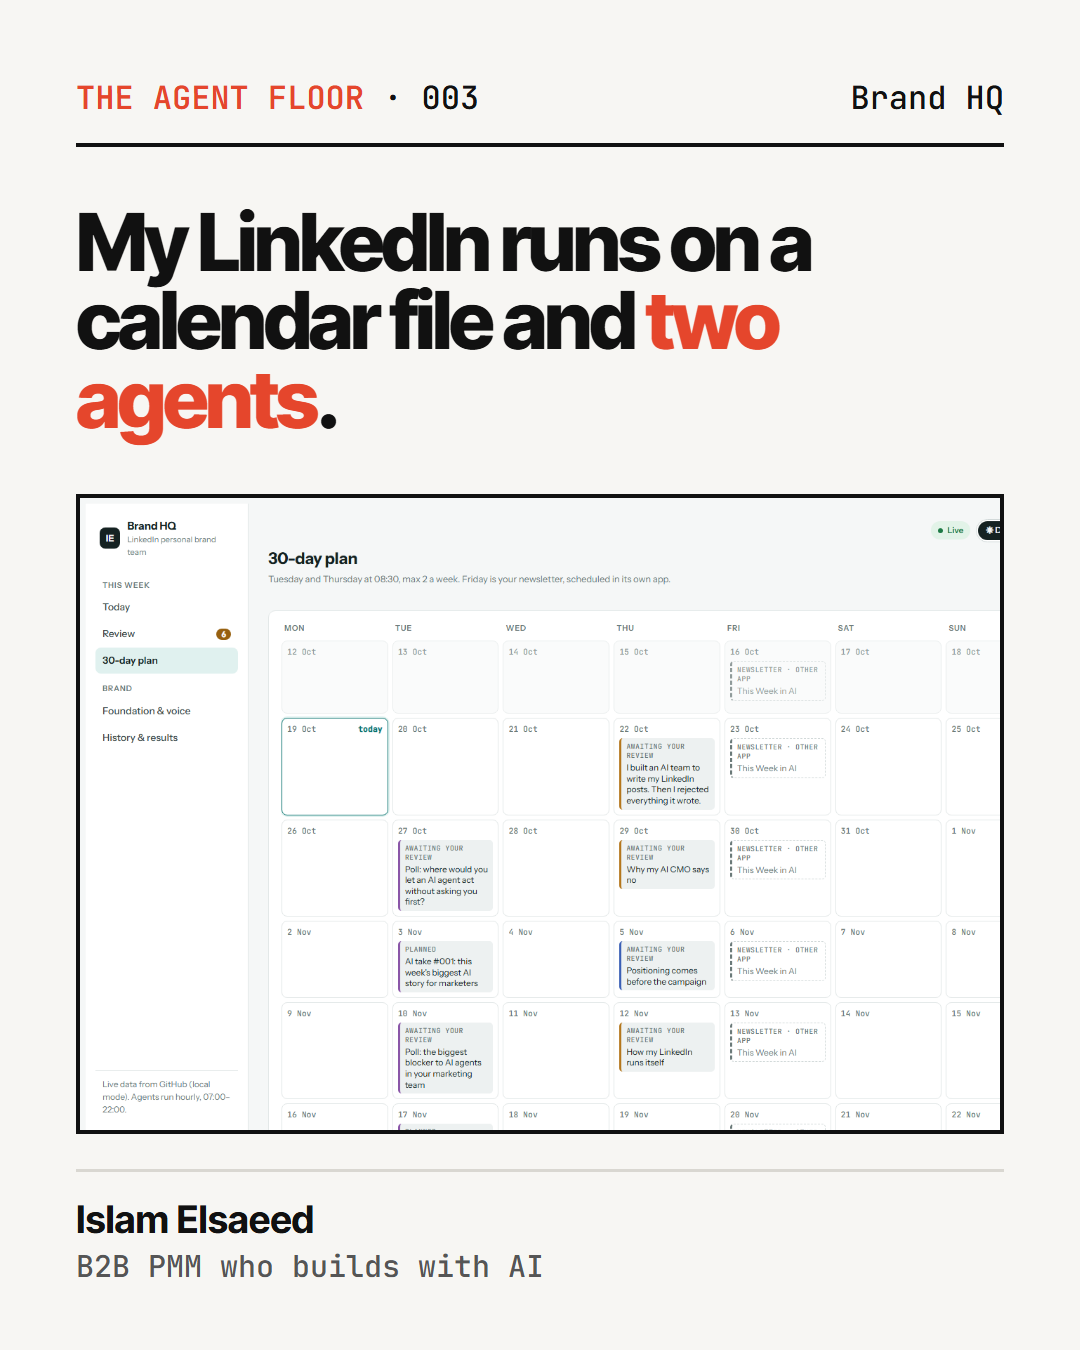
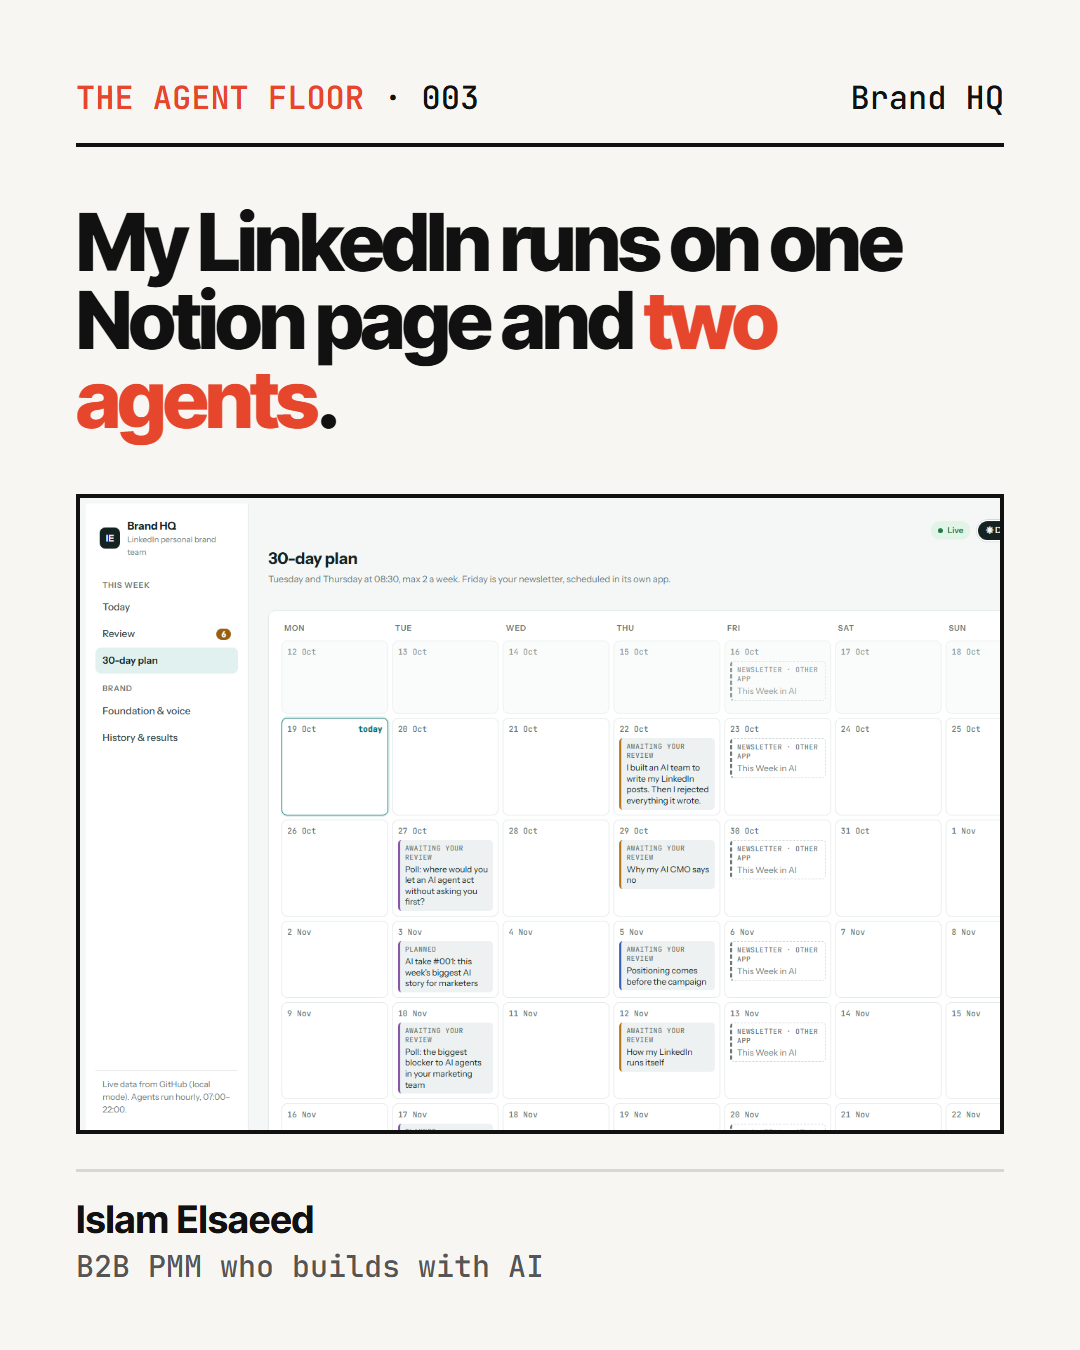
brand-hq: post 07 now describes the Notion base; re-rendered visual

Changed region(s): [[0.0611, 0.1867, 0.4583, 0.28], [0.4889, 0.1556, 0.8556, 0.2489]]

diff --git a/brand-hq/posts/2026-11-12-agent-floor-003-how-my-linkedin-runs-itself.md b/brand-hq/posts/2026-11-12-agent-floor-003-how-my-linkedin-runs-itself.md
@@ -24,7 +24,7 @@ The drafts arrive on Telegram with two buttons: approve, or send back with a com
 
 **[add: posting day, either "On posting day I get a reminder with the post ready to copy." or "On posting day it publishes itself at 08:30." This depends on whether auto-posting is live by then.]**
 
-Everything lives in one GitHub repository: a small text file per post, with its status at the top. No database, and a simple web app on top so I can see the month at a glance.
+Everything lives in one Notion page: a database row per post with its status, text and visuals, next to my brand kit and voice guide. A small web app on top shows the month at a glance and the agents at work.
 
 What it costs me: about 15 minutes a week to read drafts and tap a button. What it took to build: a few evenings, and a lot of rejected drafts.
 
@@ -38,5 +38,5 @@ template: buildlog
 series: THE AGENT FLOOR
 issue: 003
 context: Brand HQ
-headline: My LinkedIn runs on a calendar file and *two agents*.
+headline: My LinkedIn runs on one Notion page and *two agents*.
 screenshot: brand-hq/design/shots/brand-hq-plan.png
